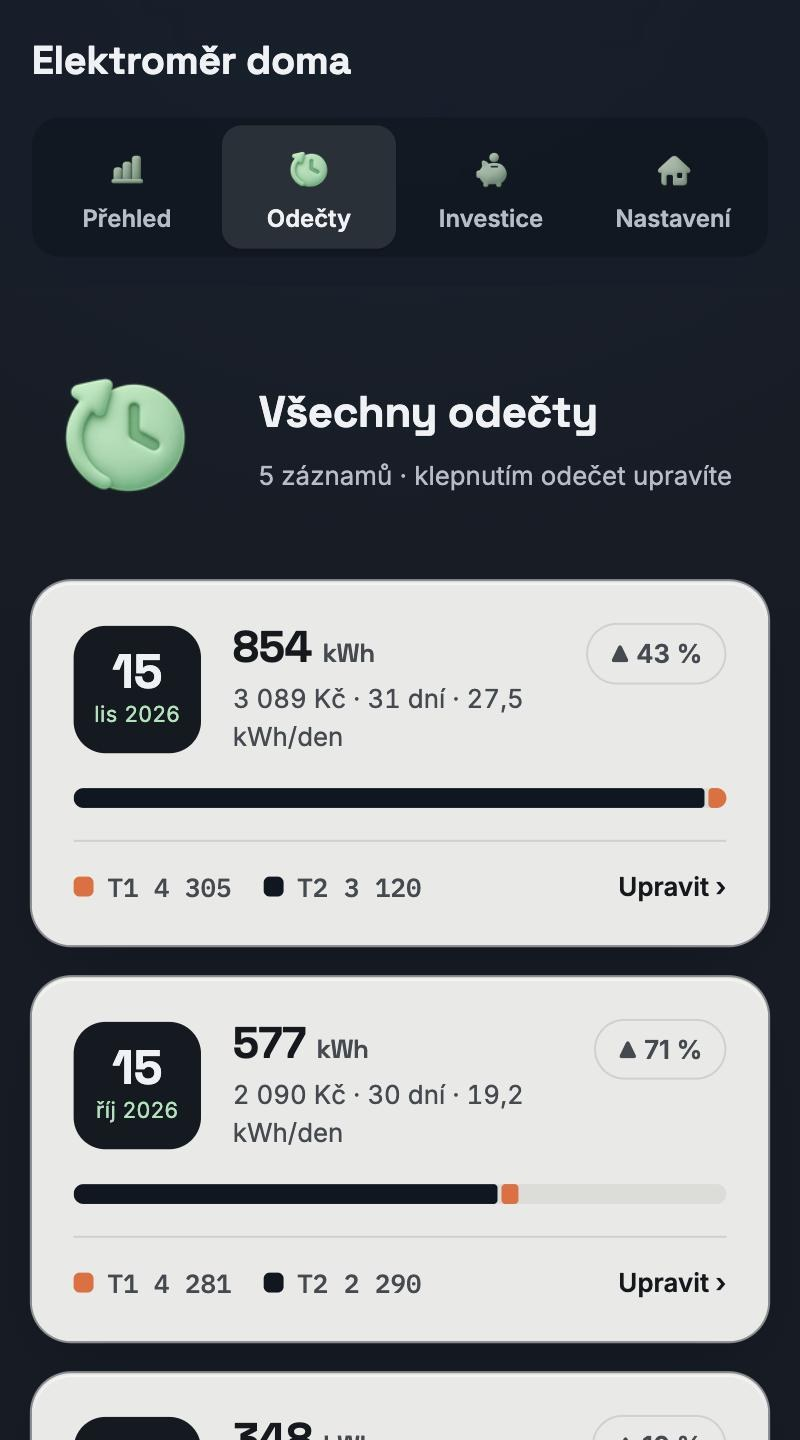
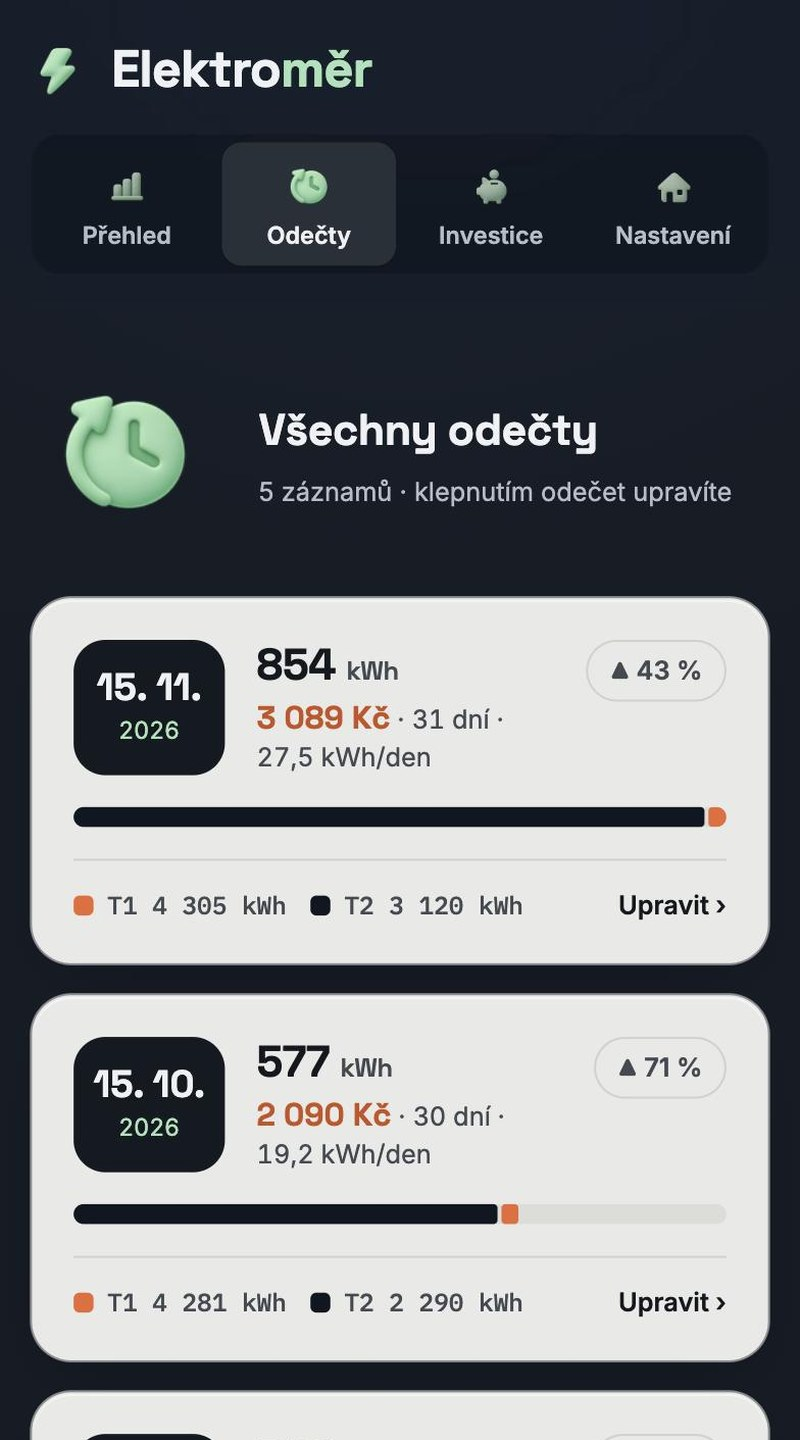
Přejmenování na Elektroměr, nový nadpis s ikonou

diff --git a/index.html b/index.html
@@ -1,18 +1,18 @@
 <meta name="claude:viewport-fit-sides" content="cover">
-<title>Elektroměr doma</title>
+<title>Elektroměr</title>
 <link rel="stylesheet" href="https://fonts.googleapis.com/css2?family=IBM+Plex+Mono:wght@500;600&family=Inter:wght@400;500;600&family=Space+Grotesk:wght@500;600;700&display=swap">
 <link rel="stylesheet" href="css/styles.css">
 
 
 <div id="splash" aria-hidden="true">
   <svg viewBox="0 0 100 100"><circle class="ring-bg" cx="50" cy="50" r="42"/><circle class="ring" cx="50" cy="50" r="42" pathLength="1"/><image class="bolt" href="icons/03-elektromer.png" x="22" y="22" width="56" height="56"/></svg>
-  <b>Elektroměr doma</b>
+  <b>Elektro<span>měr</span></b>
   <span>Načítám odečty</span>
 </div>
 <div class="app">
   <header class="top">
     <div class="top-row">
-      <h1>Elektroměr doma</h1>
+      <h1><img src="icons/01-spotreba.png" alt="" width="34" height="34"><span>Elektro<b>měr</b></span></h1>
       <p class="next" id="nextDue"></p>
     </div>
     <nav class="tabs" aria-label="Části aplikace"><div>

diff --git a/css/styles.css b/css/styles.css
@@ -972,7 +972,7 @@ body::after {
   letter-spacing: -0.01em;
 }
 
-#splash span {
+#splash > span {
   font-size: 13px;
   color: var(--muted);
   margin-top: -12px;
@@ -1362,7 +1362,7 @@ body::after {
   #splash b {
     animation: rise 500ms var(--ease-out) 120ms both;
   }
-  #splash span {
+  #splash > span {
     animation: rise 500ms var(--ease-out) 220ms both;
   }
   .app.first .top {
@@ -1691,5 +1691,34 @@ body::after {
 @keyframes growX {
   from {
     transform: scaleX(0);
+  }
+}
+
+.top h1 {
+  display: flex;
+  align-items: center;
+  gap: 10px;
+  font-size: 26px;
+  letter-spacing: -0.02em;
+}
+
+.top h1 img {
+  width: 34px;
+  height: 34px;
+  object-fit: contain;
+  margin-left: -4px;
+}
+
+.top h1 b, #splash b span {
+  color: #23895c;
+}
+
+:root[data-theme="dark"] :is(.top h1 b, #splash b span) {
+  color: #a6e3b8;
+}
+
+@media (prefers-color-scheme: dark) {
+  :root:not([data-theme="light"]) :is(.top h1 b, #splash b span) {
+    color: #a6e3b8;
   }
 }

diff --git a/README.md b/README.md
@@ -1,4 +1,4 @@
-# Elektroměr doma
+# Elektroměr
 
 Mobilní stránka na měsíční samoodečty dvoutarifového elektroměru: stav z fotky, spotřeba a cena po obdobích, grafy, zálohy, výhled na 12 měsíců a orientační návratnost úsporných technologií.
 
